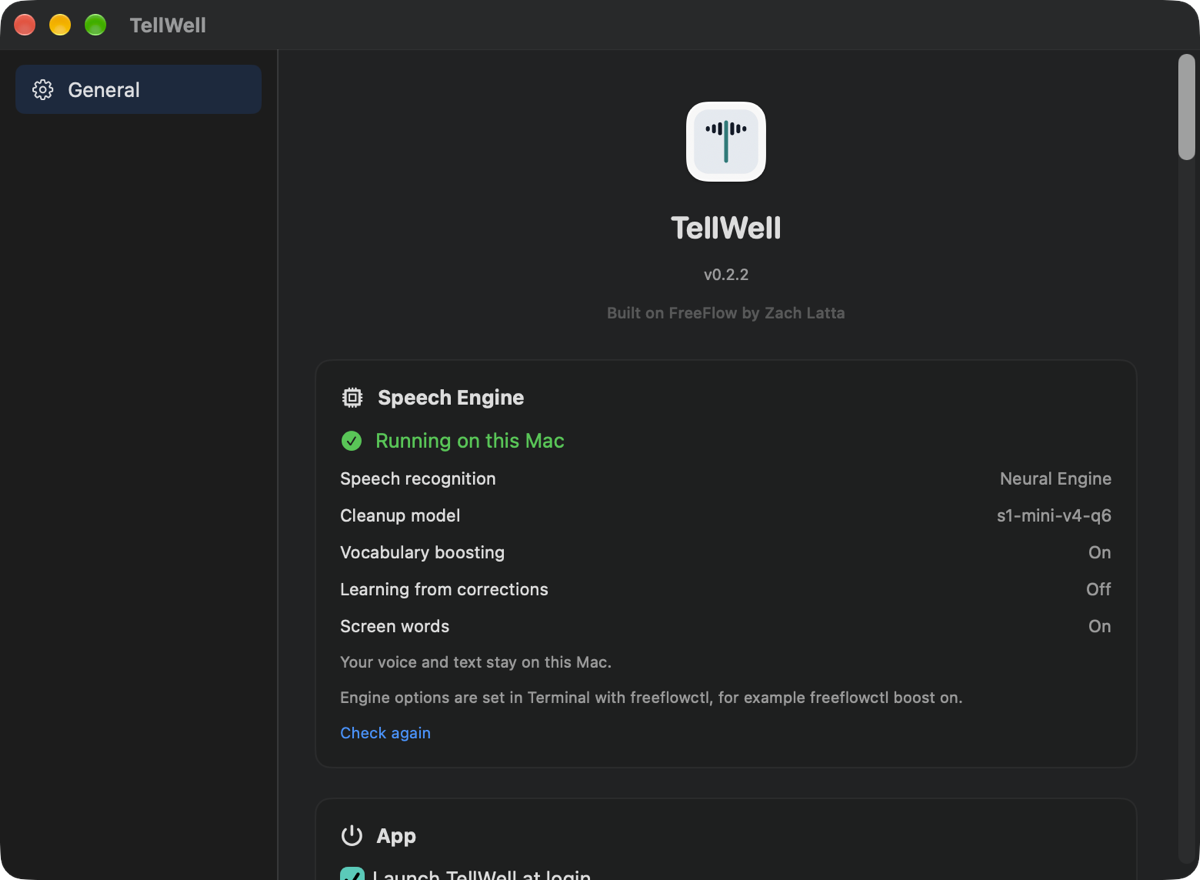
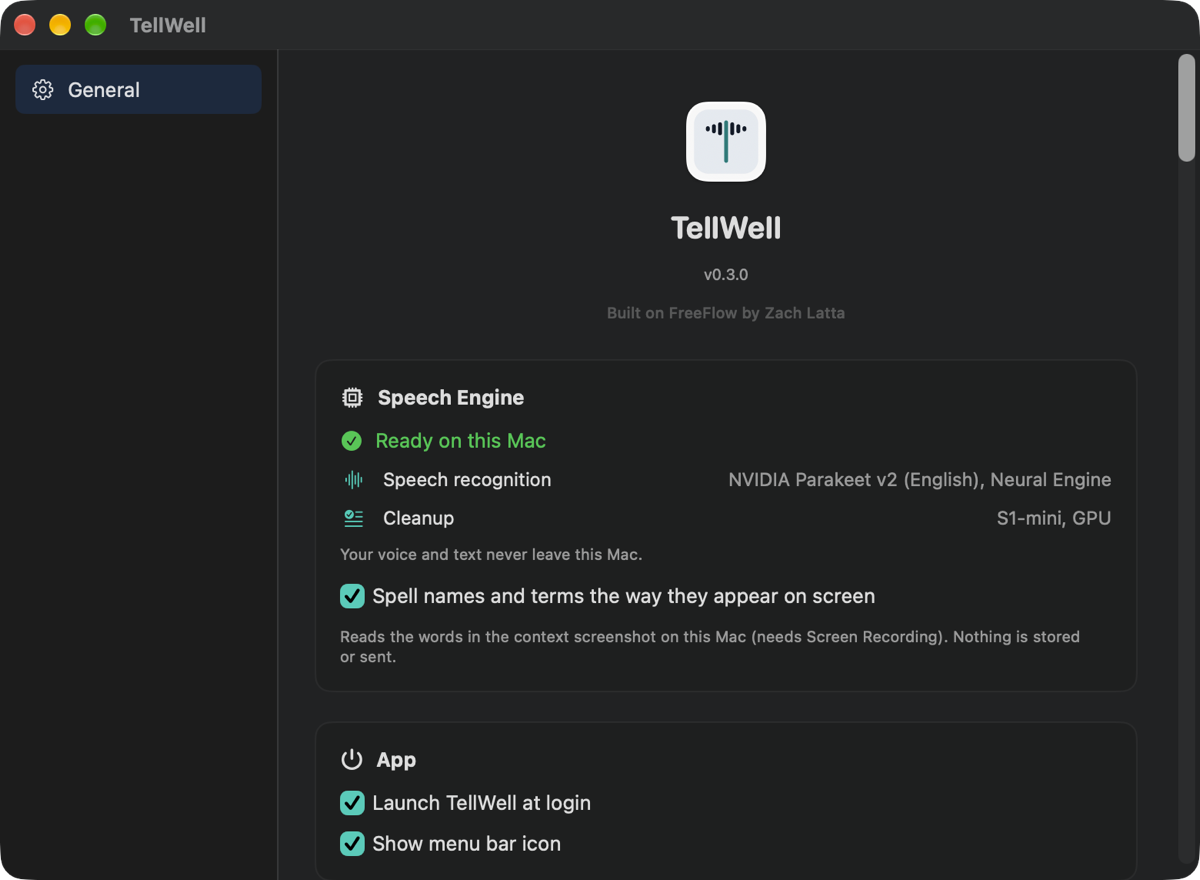
TellWell 0.3.0

diff --git a/docs/index.html b/docs/index.html
@@ -31,8 +31,8 @@
   "applicationCategory": "UtilitiesApplication",
   "applicationSubCategory": "Dictation",
   "operatingSystem": "macOS 14 or later (Apple Silicon)",
-  "softwareVersion": "0.2.2",
-  "dateModified": "2026-11-13",
+  "softwareVersion": "0.3.0",
+  "dateModified": "2026-11-15",
   "isAccessibleForFree": true,
   "license": "https://opensource.org/license/mit",
   "offers": {
@@ -208,7 +208,7 @@
         </video>
         <p>Also on <a href="https://youtu.be/Wg6OifYSCvk">YouTube</a></p>
       </dialog>
-      <p class="fine">Version 0.2.2 · Apple Silicon, macOS 14 or later · MIT licence ·
+      <p class="fine">Version 0.3.0 · Apple Silicon, macOS 14 or later · MIT licence ·
         <a href="wispr-flow-alternative/">compare with Wispr Flow</a> · <a href="https://github.com/ayushpatnaikgit/tellwell">source</a> ·
         also on <a href="android/">Android</a></p>
 
@@ -261,7 +261,7 @@
     <section id="how">
       <div class="split flip">
         <figure class="shot">
-          <img src="img/settings.png" width="1200" height="880" loading="lazy" alt="TellWell's settings window showing the speech engine running on this Mac: speech recognition on the Neural Engine, the cleanup model and screen words.">
+          <img src="img/settings.png" width="1200" height="880" loading="lazy" alt="TellWell's settings window showing the speech engine ready on this Mac: speech recognition with NVIDIA Parakeet v2 on the Neural Engine, cleanup with S1-mini on the GPU, and the switch to spell names the way they appear on screen.">
           <figcaption>TellWell's settings, on the Mac it was built on.</figcaption>
         </figure>
         <div class="prose">

diff --git a/docs/wispr-flow-alternative/index.html b/docs/wispr-flow-alternative/index.html
@@ -32,7 +32,7 @@
   "name": "Free Wispr Flow Alternative for Mac, Open Source | TellWell",
   "url": "https://ayushpatnaikgit.github.io/tellwell/wispr-flow-alternative/",
   "description": "TellWell is a free, open-source Wispr Flow alternative for Mac. Dictation runs offline on your Mac, spells names from your screen, and needs no account.",
-  "dateModified": "2026-11-14",
+  "dateModified": "2026-11-15",
   "about": {
     "@type": "SoftwareApplication",
     "name": "TellWell",
